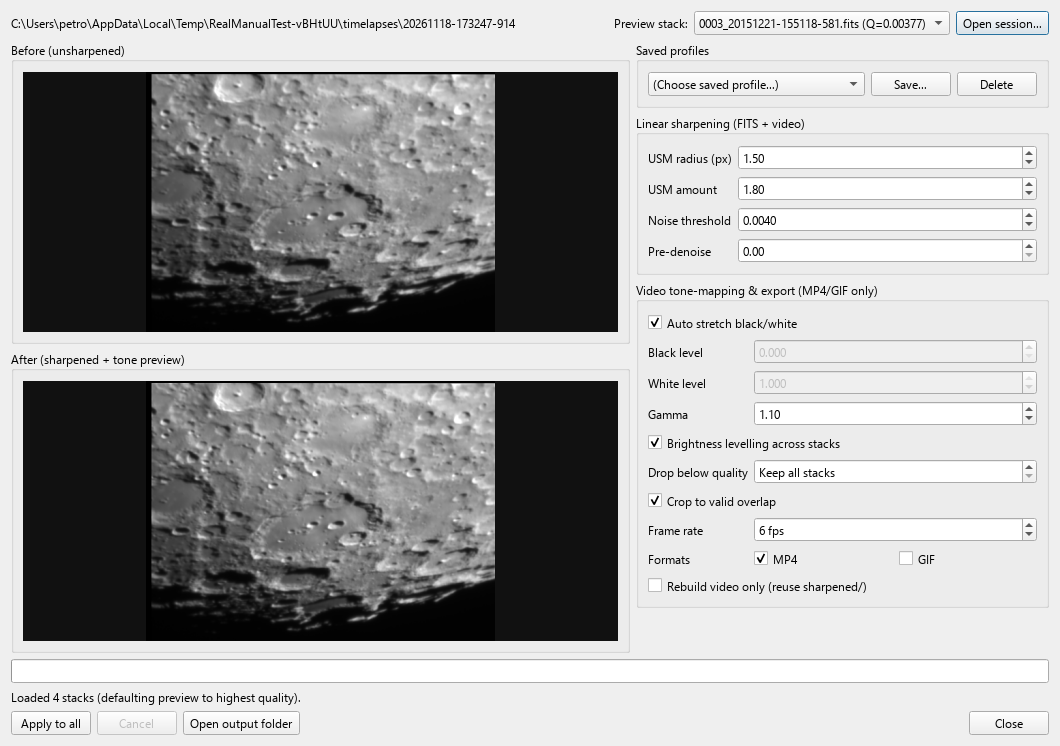
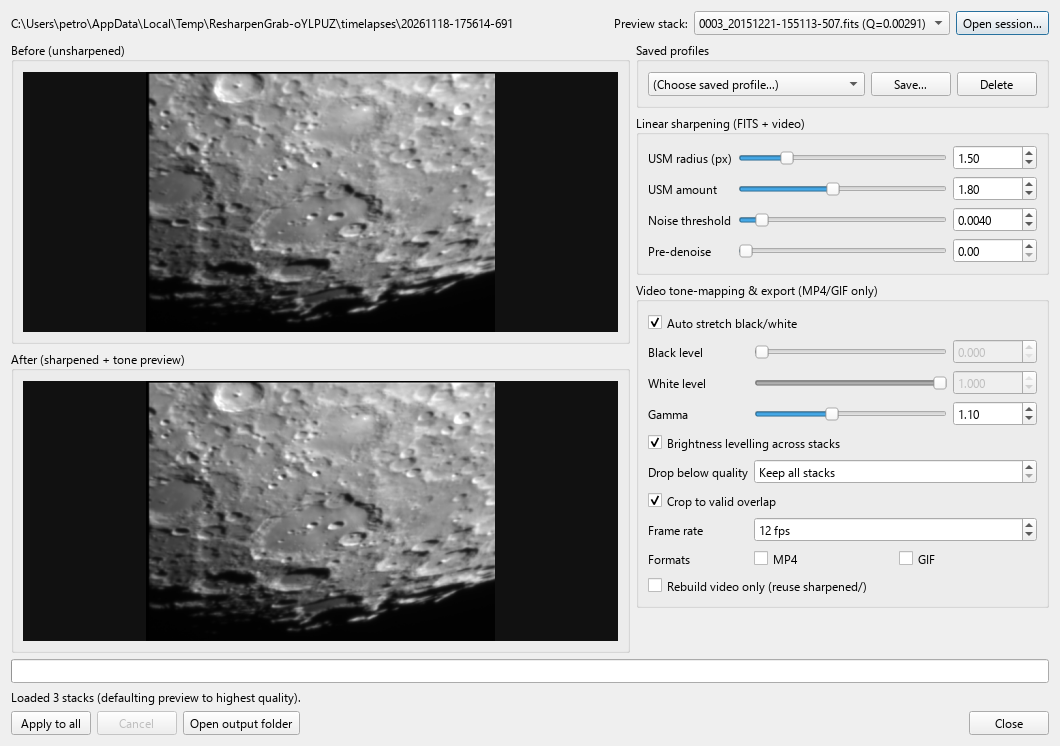
Re-sharpen dialog: add synced sliders and cached coalesced live preview

diff --git a/resharpen_dialog.cpp b/resharpen_dialog.cpp
@@ -6,6 +6,7 @@
 #include <QtCore/QFileInfo>
 #include <QtCore/QMetaObject>
 #include <QtCore/QSignalBlocker>
+#include <QtCore/QTimer>
 #include <QtCore/QUrl>
 #include <QtGui/QDesktopServices>
 #include <QtGui/QPixmap>
@@ -22,10 +23,44 @@
 #include <QtWidgets/QMessageBox>
 #include <QtWidgets/QProgressBar>
 #include <QtWidgets/QPushButton>
+#include <QtWidgets/QSlider>
 #include <QtWidgets/QSpinBox>
 #include <QtWidgets/QVBoxLayout>
 
 #include <algorithm>
+#include <cmath>
+
+namespace {
+
+QWidget* makeSliderRow(QWidget* parent, QDoubleSpinBox* spin, QSlider*& outSlider,
+    const QString& sliderObjectName, double sliderMin, double sliderMax, double scale)
+{
+    auto* row = new QWidget(parent);
+    auto* lay = new QHBoxLayout(row);
+    lay->setContentsMargins(0, 0, 0, 0);
+    lay->setSpacing(6);
+    outSlider = new QSlider(Qt::Horizontal, row);
+    outSlider->setObjectName(sliderObjectName);
+    outSlider->setRange(static_cast<int>(std::lround(sliderMin * scale)),
+                        static_cast<int>(std::lround(sliderMax * scale)));
+    outSlider->setValue(std::clamp(static_cast<int>(std::lround(spin->value() * scale)),
+                                   outSlider->minimum(), outSlider->maximum()));
+    spin->setMinimumWidth(84);
+    lay->addWidget(outSlider, 1);
+    lay->addWidget(spin);
+
+    QObject::connect(outSlider, &QSlider::valueChanged, spin, [spin, scale](int v) {
+        spin->setValue(static_cast<double>(v) / scale);
+    });
+    QObject::connect(spin, &QDoubleSpinBox::valueChanged, outSlider, [outSlider, scale](double v) {
+        const QSignalBlocker b(outSlider);
+        outSlider->setValue(std::clamp(static_cast<int>(std::lround(v * scale)),
+                                       outSlider->minimum(), outSlider->maximum()));
+    });
+    return row;
+}
+
+} // namespace
 
 ResharpenDialog::ResharpenDialog(QString timelapsesRoot, const QString& initialSessionDir, QWidget* parent)
     : QDialog(parent)
@@ -116,10 +151,10 @@ ResharpenDialog::ResharpenDialog(QString timelapsesRoot, const QString& initialS
     denoise_->setDecimals(2);
     denoise_->setSingleStep(0.05);
     denoise_->setValue(0.0);
-    sharpForm->addRow("USM radius (px)", radius_);
-    sharpForm->addRow("USM amount", amount_);
-    sharpForm->addRow("Noise threshold", threshold_);
-    sharpForm->addRow("Pre-denoise", denoise_);
+    sharpForm->addRow("USM radius (px)", makeSliderRow(sharpBox, radius_, radiusSlider_, "resharpenRadiusSlider", 0.30, 6.00, 100.0));
+    sharpForm->addRow("USM amount", makeSliderRow(sharpBox, amount_, amountSlider_, "resharpenAmountSlider", 0.00, 4.00, 100.0));
+    sharpForm->addRow("Noise threshold", makeSliderRow(sharpBox, threshold_, thresholdSlider_, "resharpenThresholdSlider", 0.0000, 0.0500, 10000.0));
+    sharpForm->addRow("Pre-denoise", makeSliderRow(sharpBox, denoise_, denoiseSlider_, "resharpenDenoiseSlider", 0.00, 1.00, 100.0));
     ctrlCol->addWidget(sharpBox);
 
     auto* videoBox = new QGroupBox("Video tone-mapping && export (MP4/GIF only)", this);
@@ -167,9 +202,9 @@ ResharpenDialog::ResharpenDialog(QString timelapsesRoot, const QString& initialS
     rebuildVideoOnly_->setObjectName("resharpenRebuildOnly");
 
     videoForm->addRow(autoStretch_);
-    videoForm->addRow("Black level", blackLevel_);
-    videoForm->addRow("White level", whiteLevel_);
-    videoForm->addRow("Gamma", gamma_);
+    videoForm->addRow("Black level", makeSliderRow(videoBox, blackLevel_, blackSlider_, "resharpenBlackSlider", 0.00, 0.98, 1000.0));
+    videoForm->addRow("White level", makeSliderRow(videoBox, whiteLevel_, whiteSlider_, "resharpenWhiteSlider", 0.02, 1.00, 1000.0));
+    videoForm->addRow("Gamma", makeSliderRow(videoBox, gamma_, gammaSlider_, "resharpenGammaSlider", 0.20, 2.50, 100.0));
     videoForm->addRow(brightnessLevel_);
     videoForm->addRow("Drop below quality", minQualityPct_);
     videoForm->addRow(cropOverlap_);
@@ -212,16 +247,27 @@ ResharpenDialog::ResharpenDialog(QString timelapsesRoot, const QString& initialS
     });
     connect(stackCombo_, &QComboBox::currentIndexChanged, this, [this] { loadSelectedStack(); });
 
+    previewTimer_ = new QTimer(this);
+    previewTimer_->setSingleShot(true);
+    connect(previewTimer_, &QTimer::timeout, this, &ResharpenDialog::updatePreview);
+
     for (auto* sb : {radius_, amount_, threshold_, denoise_, blackLevel_, whiteLevel_, gamma_})
-        connect(sb, &QDoubleSpinBox::valueChanged, this, [this] { if (!updating_) updatePreview(); });
+        connect(sb, &QDoubleSpinBox::valueChanged, this, [this] { if (!updating_) schedulePreviewUpdate(); });
     connect(autoStretch_, &QCheckBox::toggled, this, [this](bool on) {
         blackLevel_->setEnabled(!on);
+        blackSlider_->setEnabled(!on);
         whiteLevel_->setEnabled(!on);
+        whiteSlider_->setEnabled(!on);
         if (!updating_) updatePreview();
     });
     connect(rebuildVideoOnly_, &QCheckBox::toggled, this, [this](bool only) {
-        for (QWidget* w : std::initializer_list<QWidget*>{radius_, amount_, threshold_, denoise_})
+        for (QWidget* w : std::initializer_list<QWidget*>{
+                 radius_, radiusSlider_, amount_, amountSlider_,
+                 threshold_, thresholdSlider_, denoise_, denoiseSlider_})
+        {
             w->setEnabled(!only);
+        }
+        if (!updating_) updatePreview();
     });
 
     connect(profileCombo_, &QComboBox::currentIndexChanged, this, [this](int idx) {
@@ -271,7 +317,9 @@ ResharpenDialog::ResharpenDialog(QString timelapsesRoot, const QString& initialS
 
     refreshSavedProfiles();
     blackLevel_->setEnabled(!autoStretch_->isChecked());
+    blackSlider_->setEnabled(!autoStretch_->isChecked());
     whiteLevel_->setEnabled(!autoStretch_->isChecked());
+    whiteSlider_->setEnabled(!autoStretch_->isChecked());
 
     QString startDir = initialSessionDir;
     if (startDir.isEmpty() && !timelapsesRoot_.isEmpty())
@@ -313,7 +361,9 @@ void ResharpenDialog::setControlsFromSettings(const SharpeningSettings& sharp, c
     blackLevel_->setValue(tone.blackLevel);
     whiteLevel_->setValue(tone.whiteLevel);
     blackLevel_->setEnabled(!tone.autoStretch);
+    blackSlider_->setEnabled(!tone.autoStretch);
     whiteLevel_->setEnabled(!tone.autoStretch);
+    whiteSlider_->setEnabled(!tone.autoStretch);
     gamma_->setValue(tone.gamma);
     brightnessLevel_->setChecked(tone.brightnessLevelling);
     minQualityPct_->setValue(tone.minQualityRatio * 100.0);
@@ -387,6 +437,8 @@ void ResharpenDialog::loadSelectedStack()
         return;
     }
     loadedRaw_ = std::move(img);
+    autoLevelsValid_ = false;
+    cachedBeforeImg_ = {};
     updatePreview();
 }
 
@@ -419,20 +471,45 @@ VideoToneSettings ResharpenDialog::currentTone() const
     return v;
 }
 
+void ResharpenDialog::schedulePreviewUpdate()
+{
+    if (previewTimer_) previewTimer_->start(25);
+}
+
 void ResharpenDialog::updatePreview()
 {
     if (!loadedRaw_) return;
+    if (previewTimer_ && previewTimer_->isActive()) previewTimer_->stop();
+
     const VideoToneSettings tone = currentTone();
     double black = tone.blackLevel;
     double white = tone.whiteLevel;
     if (tone.autoStretch)
-        computeAutoStretchLevels(*loadedRaw_, black, white);
+    {
+        if (!autoLevelsValid_)
+        {
+            computeAutoStretchLevels(*loadedRaw_, cachedAutoBlack_, cachedAutoWhite_);
+            autoLevelsValid_ = true;
+        }
+        black = cachedAutoBlack_;
+        white = cachedAutoWhite_;
+    }
 
-    const QImage before = toneMapFitsToImage(*loadedRaw_, black, white, tone.gamma, 1.0, {}, 512);
-    const FitsImage sharp = applyLinearSharpening(*loadedRaw_, currentSharpening());
-    const QImage after = toneMapFitsToImage(sharp, black, white, tone.gamma, 1.0, {}, 512);
+    if (cachedBeforeImg_.isNull() || cachedBeforeBlack_ != black
+        || cachedBeforeWhite_ != white || cachedBeforeGamma_ != tone.gamma)
+    {
+        cachedBeforeImg_ = toneMapFitsToImage(*loadedRaw_, black, white, tone.gamma, 1.0, {}, 512);
+        cachedBeforeBlack_ = black;
+        cachedBeforeWhite_ = white;
+        cachedBeforeGamma_ = tone.gamma;
+        beforeLabel_->setPixmap(QPixmap::fromImage(cachedBeforeImg_)
+            .scaled(beforeLabel_->size(), Qt::KeepAspectRatio, Qt::SmoothTransformation));
+    }
 
-    beforeLabel_->setPixmap(QPixmap::fromImage(before).scaled(beforeLabel_->size(), Qt::KeepAspectRatio, Qt::SmoothTransformation));
+    const QImage after = rebuildVideoOnly_->isChecked()
+        ? cachedBeforeImg_
+        : toneMapFitsToImage(applyLinearSharpening(*loadedRaw_, currentSharpening()),
+                             black, white, tone.gamma, 1.0, {}, 512);
     afterLabel_->setPixmap(QPixmap::fromImage(after).scaled(afterLabel_->size(), Qt::KeepAspectRatio, Qt::SmoothTransformation));
 }
 

diff --git a/tests/ui_tests.cpp b/tests/ui_tests.cpp
@@ -1637,9 +1637,42 @@ void UiTest::timelapsePanelAndResharpenWorkflow()
     QVERIFY(!beforeLbl->pixmap().isNull());
     QVERIFY(!afterLbl->pixmap().isNull());
 
-    dlg.findChild<QDoubleSpinBox*>("resharpenAmount")->setValue(2.1);
-    dlg.findChild<QDoubleSpinBox*>("resharpenGamma")->setValue(1.25);
-    QCoreApplication::processEvents();
+    auto* radiusSlider = dlg.findChild<QSlider*>("resharpenRadiusSlider");
+    auto* amountSlider = dlg.findChild<QSlider*>("resharpenAmountSlider");
+    auto* thresholdSlider = dlg.findChild<QSlider*>("resharpenThresholdSlider");
+    auto* denoiseSlider = dlg.findChild<QSlider*>("resharpenDenoiseSlider");
+    auto* gammaSlider = dlg.findChild<QSlider*>("resharpenGammaSlider");
+    auto* blackSlider = dlg.findChild<QSlider*>("resharpenBlackSlider");
+    auto* whiteSlider = dlg.findChild<QSlider*>("resharpenWhiteSlider");
+    auto* autoStretch = dlg.findChild<QCheckBox*>("resharpenAutoStretch");
+    auto* rebuildOnly = dlg.findChild<QCheckBox*>("resharpenRebuildOnly");
+    auto* amountSpin = dlg.findChild<QDoubleSpinBox*>("resharpenAmount");
+    auto* gammaSpin = dlg.findChild<QDoubleSpinBox*>("resharpenGamma");
+    QVERIFY(radiusSlider && amountSlider && thresholdSlider && denoiseSlider
+        && gammaSlider && blackSlider && whiteSlider && autoStretch && rebuildOnly && amountSpin && gammaSpin);
+
+    // Sync slider -> spin box and verify coalesced live after-preview refreshes.
+    const QImage afterBefore = afterLbl->pixmap().toImage();
+    amountSlider->setValue(260); // 2.60
+    QVERIFY(std::abs(amountSpin->value() - 2.60) < 1e-4);
+    QTRY_VERIFY_WITH_TIMEOUT(afterLbl->pixmap().toImage() != afterBefore, 2000);
+
+    // Sync spin box -> slider and check enable/disable states.
+    gammaSpin->setValue(1.25);
+    QCOMPARE(gammaSlider->value(), 125);
+    QVERIFY(!blackSlider->isEnabled() && !whiteSlider->isEnabled());
+    autoStretch->setChecked(false);
+    QVERIFY(blackSlider->isEnabled() && whiteSlider->isEnabled());
+    autoStretch->setChecked(true);
+    QVERIFY(!blackSlider->isEnabled() && !whiteSlider->isEnabled());
+
+    rebuildOnly->setChecked(true);
+    QVERIFY(!amountSlider->isEnabled() && !radiusSlider->isEnabled());
+    rebuildOnly->setChecked(false);
+    QVERIFY(amountSlider->isEnabled() && radiusSlider->isEnabled());
+
+    amountSpin->setValue(2.1);
+    QTRY_VERIFY_WITH_TIMEOUT(amountSlider->value() == 210, 1000);
     applyBtn->click();
     QTRY_VERIFY_WITH_TIMEOUT(statusLbl->text().startsWith("Done:"), 15000);
 

diff --git a/resharpen_dialog.h b/resharpen_dialog.h
@@ -17,7 +17,9 @@ class QDoubleSpinBox;
 class QLabel;
 class QProgressBar;
 class QPushButton;
+class QSlider;
 class QSpinBox;
+class QTimer;
 
 class ResharpenDialog : public QDialog
 {
@@ -35,6 +37,7 @@ signals:
 private:
     void loadSelectedStack();
     void updatePreview();
+    void schedulePreviewUpdate();
     void refreshSavedProfiles();
     [[nodiscard]] SharpeningSettings currentSharpening() const;
     [[nodiscard]] VideoToneSettings currentTone() const;
@@ -49,7 +52,15 @@ private:
     std::optional<FitsImage> loadedRaw_;
     std::vector<SavedSharpeningProfile> savedProfiles_;
     bool updating_{false};
+    double cachedAutoBlack_{0.0};
+    double cachedAutoWhite_{1.0};
+    bool autoLevelsValid_{false};
+    QImage cachedBeforeImg_;
+    double cachedBeforeBlack_{-1.0};
+    double cachedBeforeWhite_{-1.0};
+    double cachedBeforeGamma_{-1.0};
 
+    QTimer* previewTimer_{nullptr};
     QLabel* sessionLabel_{nullptr};
     QPushButton* browseBtn_{nullptr};
     QComboBox* stackCombo_{nullptr};
@@ -58,14 +69,21 @@ private:
     QPushButton* deleteProfileBtn_{nullptr};
 
     QDoubleSpinBox* radius_{nullptr};
+    QSlider* radiusSlider_{nullptr};
     QDoubleSpinBox* amount_{nullptr};
+    QSlider* amountSlider_{nullptr};
     QDoubleSpinBox* threshold_{nullptr};
+    QSlider* thresholdSlider_{nullptr};
     QDoubleSpinBox* denoise_{nullptr};
+    QSlider* denoiseSlider_{nullptr};
 
     QCheckBox* autoStretch_{nullptr};
     QDoubleSpinBox* blackLevel_{nullptr};
+    QSlider* blackSlider_{nullptr};
     QDoubleSpinBox* whiteLevel_{nullptr};
+    QSlider* whiteSlider_{nullptr};
     QDoubleSpinBox* gamma_{nullptr};
+    QSlider* gammaSlider_{nullptr};
     QCheckBox* brightnessLevel_{nullptr};
     QDoubleSpinBox* minQualityPct_{nullptr};
     QCheckBox* cropOverlap_{nullptr};

diff --git a/MANUAL.md b/MANUAL.md
@@ -492,7 +492,7 @@ Open **Session → Re-sharpen time-lapse…** (or press **Re-sharpen…** on the
 
 ![Re-sharpen dialog showing Before/After unsharpened vs. USM-sharpened Clavius FITS stack](docs/images/manual-resharpen.png)
 
-***Re-sharpen time-lapse…** inspecting the finished `Moon_165104.ser` session: automatically selects the highest-quality stack (`Q=0.00377`) for side-by-side comparison (`USM radius 1.50 px`, `USM amount 1.80`, `Gamma 1.10`) without modifying the linear FITS stacks in `stacks/`.*
+***Re-sharpen time-lapse…** inspecting the finished `Moon_165104.ser` session: automatically selects the highest-quality stack (`Q=0.00291`) for live before/after tuning with synced sliders and spin boxes (`USM radius 1.50 px`, `USM amount 1.80`, `Gamma 1.10`) without modifying the linear FITS stacks in `stacks/`.*
 
 ---
 
